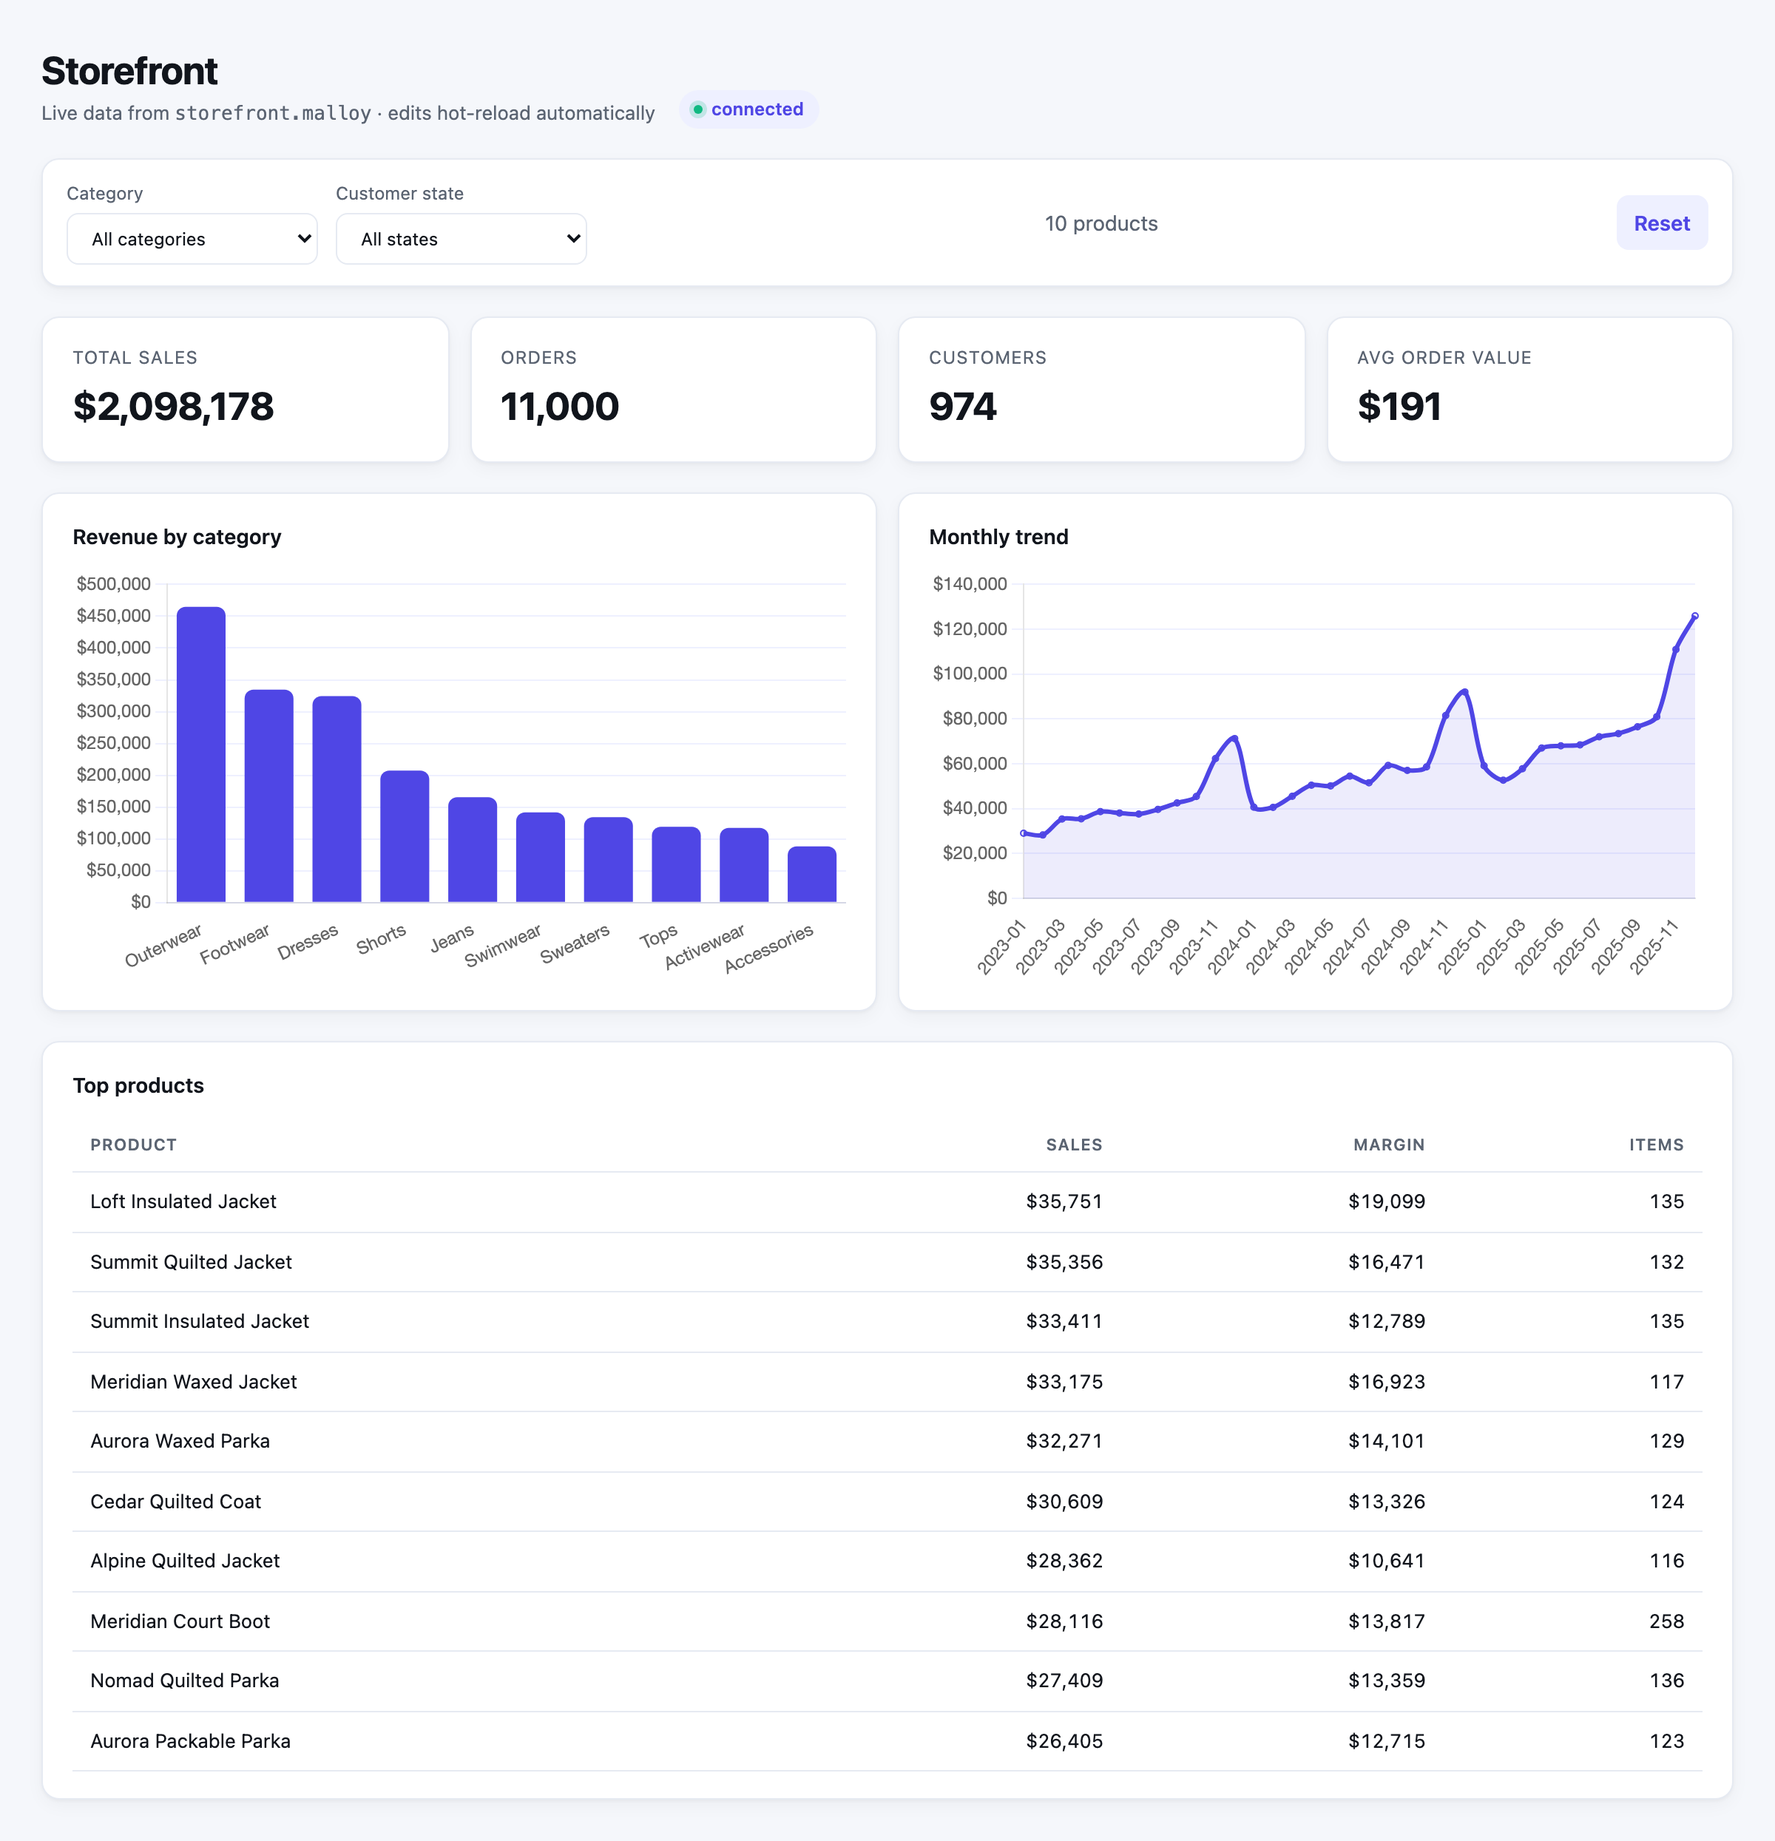
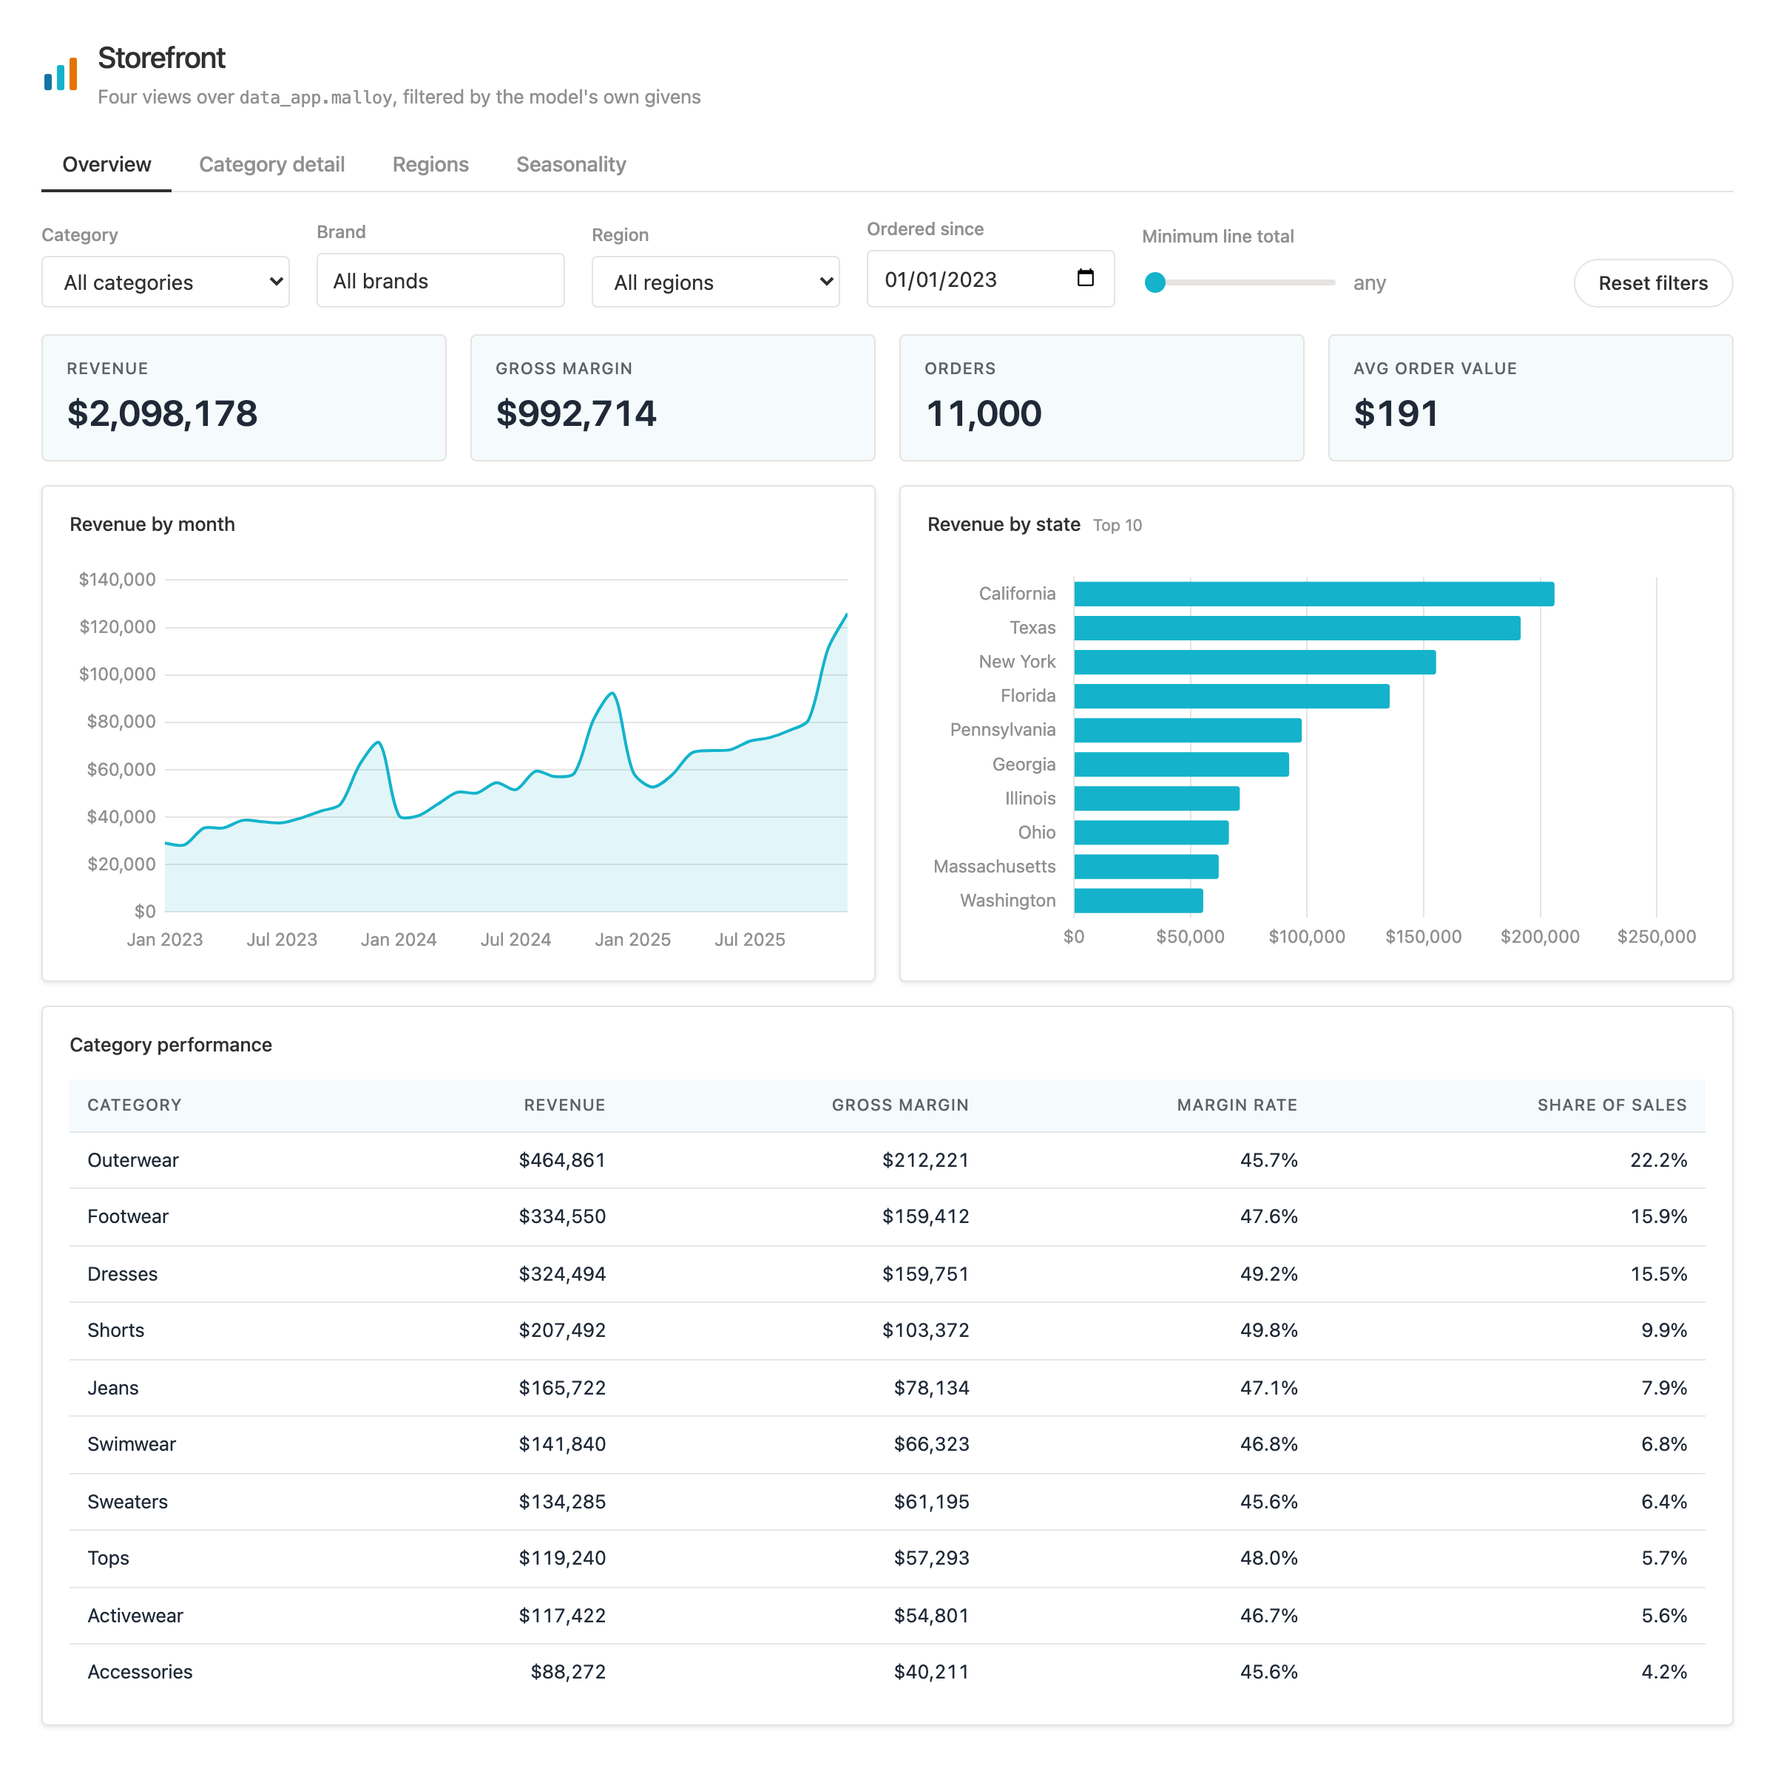
fix(examples): close the review round on the storefront data app
Eleven findings from an adversarial review of the two commits below. Each was
re-derived against this repo's own sources before being taken, because several
of them contradict what I had written.

The one that matters most is a false claim of mine, and it was in four places.
I described the page being replaced as escaping by wrapping values in double
quotes. It does not: it interpolates into query text and escapes `'` by doubling
it. The double-quote encoder is #935's own unlanded format.js, which this slice
declines to carry. Two comments in the same commit contradicted each other about
this, one of them right. The prose in format.js, the vendoring script, and the
test file now separate the two, and the first commit's message is rewritten to
match; the tree it produces is byte-identical, only the message moved.

Behaviour fixes, in descending order of what they would have cost a reader:

- A negative number was not going through the encoder. `encodeFilterValue(-5)`
  returned `-5`, which the grammar reads as `{operator:"=", values:["5"],
  not:true}`: every row EXCEPT 5. Numbers, booleans and dates now reduce to text
  and go through the same encoder as everything else, which is what the module's
  own doc comment already promised callers. Unreachable from the page today
  since every control hands it a string, but this is the module a skill tells
  authors to copy, and the tests were pinning the unsafe path as correct.
[…]

diff --git a/examples/storefront/public/app/format.js b/examples/storefront/public/app/format.js
@@ -80,10 +80,17 @@ export function formatValue(value, format) {
          return monthLabel(value);
       case "integer":
          return integer(value);
-      default:
-         return typeof value === "number" || !Number.isNaN(Number(value))
-            ? integer(value)
-            : String(value);
+      default: {
+         // An untagged number still reads better grouped, and Malloy hands a
+         // large integer back as a string, so a numeric-looking string counts.
+         // A boolean and an empty string do NOT: `Number` turns those into 1
+         // and 0, which would render a `true` as "1" and a blank cell as "0".
+         if (typeof value === "boolean") return String(value);
+         const text = String(value);
+         return text.trim() !== "" && !Number.isNaN(Number(text))
+            ? integer(text)
+            : text;
+      }
    }
 }
 
@@ -136,13 +143,20 @@ export const plural = (word) => {
 // module (see scripts/vendor-malloy-filter.mjs), so a value goes out through
 // `unparse` and comes back through `parse` and the two agree by construction.
 //
-// This page previously escaped by wrapping a value in double quotes, which the
-// string grammar has no notion of. Measured against the real parser, 13 of 14
-// representative values then matched something other than what was clicked:
-// `-Outerwear` became a NEGATION, `%` became a match-anything pattern that
-// returned every row, `null` and `empty` became operators, `a;b` became a
-// conjunction, and a comma split one brand into two. Those failures are all
-// silent: the page still renders a table, it is just the wrong table.
+// The page this replaced did not write filter syntax at all: it pasted the
+// picked value into the query text as a Malloy string literal, escaping `'` by
+// doubling it, which is not Malloy's escape (Malloy escapes with a backslash).
+// Binding the value as a given instead is the fix for that, and it is what
+// data_app.malloy does. It also moves the escaping problem here, because a
+// `filter<string>` given takes filter syntax rather than a plain value.
+//
+// That is the part worth being careful about, because a naive encoder fails
+// silently. Measured against the parser below, a value wrapped in double quotes
+// (which the string grammar has no notion of) matches the quote characters too,
+// and an unescaped value is worse: `-Outerwear` is a NEGATION, `%` is a
+// match-anything pattern that returns every row, `null` and `empty` are
+// operators, `a;b` is a conjunction, and a comma splits one brand into two. The
+// page still renders a table for each of those. It is just the wrong table.
 
 /**
  * Whether one value survives a round trip through the grammar unchanged.
@@ -195,16 +209,22 @@ export function encodeFilterList(values) {
  * Callers decide whether a value is filterable by looking at what this RETURNS,
  * never by testing the value themselves. Two places predicting the same rule is
  * how the rule drifts, and the prediction is the copy that goes stale.
+ *
+ * Every kind of value lands on the same encoder for the same reason. A number
+ * is only "obviously safe" until it is negative: `-5` printed as itself is a
+ * NEGATION of 5, not a match for it, which is the failure this module exists to
+ * prevent. The non-string branches only reduce a value to the text it stands
+ * for; the escaping is still the grammar's.
  */
 export function encodeFilterValue(value) {
    if (value === null || value === undefined) return "";
-   if (typeof value === "boolean") return String(value);
+   if (typeof value === "boolean") return encodeFilterList([String(value)]);
    if (typeof value === "number")
-      return Number.isFinite(value) ? String(value) : "";
+      return Number.isFinite(value) ? encodeFilterList([String(value)]) : "";
    if (value instanceof Date)
       return Number.isNaN(value.getTime())
          ? ""
-         : value.toISOString().slice(0, 10);
+         : encodeFilterList([value.toISOString().slice(0, 10)]);
    if (typeof value !== "string") return "";
    return encodeFilterList([value]);
 }

diff --git a/examples/storefront/public/app/controls.js b/examples/storefront/public/app/controls.js
@@ -26,7 +26,10 @@ import {
 /** Fetch the given contracts the page's model declares. */
 export async function loadGivenContracts(modelPath) {
    const { environment, package: pkg } = Publisher.context;
-   const url = `/api/v0/environments/${encodeURIComponent(environment)}/packages/${encodeURIComponent(pkg)}/models/${modelPath}`;
+   // The model path is ONE encoded segment, slashes included, which is how
+   // /sdk/publisher.js addresses it: a model in a subfolder must not become two
+   // URL segments.
+   const url = `/api/v0/environments/${encodeURIComponent(environment)}/packages/${encodeURIComponent(pkg)}/models/${encodeURIComponent(modelPath)}`;
    const response = await fetch(url, { credentials: "include" });
    if (!response.ok)
       throw new Error(
@@ -102,7 +105,14 @@ export function buildControls(host, { modelPath, contracts, values, onChange }) 
          widgets.push(multiSelect(host, args));
       } else if (contract.control === "select") {
          widgets.push(singleSelect(host, args));
-      } else if (isFilter(contract) && contract.rangeMax !== undefined) {
+      } else if (
+         isFilter(contract) &&
+         contract.rangeMin !== undefined &&
+         contract.rangeMax !== undefined
+      ) {
+         // Both bounds, per the contract: a slider is what the PAIR signals, so
+         // a lone `range_min` or `range_max` is not one (see `Given.rangeMin` in
+         // api-doc.yaml). Reading one bound alone would invent the other.
          widgets.push(range(host, args));
       } else if (contract.type === "date") {
          widgets.push(date(host, { ...args, value: value || fallback }));
@@ -190,7 +200,17 @@ function multiSelect(
       onChange(contract.name, encodeFilterList(selected));
    };
 
+   // Not `{ once: true }`: a pointerdown INSIDE the panel (ticking a checkbox)
+   // would spend the listener without closing anything, and the popover would
+   // then ignore every later click outside it. The listener is removed when the
+   // panel closes instead, which is the event it is actually paired with.
+   const onOutsidePointerDown = (event) => {
+      if (panel && !panel.contains(event.target) && event.target !== button)
+         close();
+   };
+
    const close = () => {
+      document.removeEventListener("pointerdown", onOutsidePointerDown);
       panel?.remove();
       panel = null;
    };
@@ -221,18 +241,7 @@ function multiSelect(
       }
       button.parentElement.appendChild(panel);
       requestAnimationFrame(() => {
-         document.addEventListener(
-            "pointerdown",
-            (event) => {
-               if (
-                  panel &&
-                  !panel.contains(event.target) &&
-                  event.target !== button
-               )
-                  close();
-            },
-            { once: true },
-         );
+         document.addEventListener("pointerdown", onOutsidePointerDown);
       });
    });
 
@@ -256,8 +265,8 @@ function range(host, { contract, value, description, onChange }) {
    input.type = "range";
    input.id = `given-${contract.name}`;
    input.dataset.given = contract.name;
-   input.min = String(contract.rangeMin ?? 0);
-   input.max = String(contract.rangeMax ?? 100);
+   input.min = String(contract.rangeMin);
+   input.max = String(contract.rangeMax);
    input.value = String(decodeAtLeast(value));
    const readout = document.createElement("output");
    const paint = () => {

diff --git a/examples/storefront/public/app/app.js b/examples/storefront/public/app/app.js
@@ -2,7 +2,8 @@
 //
 // State is the current tab plus a value per given, and it lives in the URL:
 // `?tab=regions&REGION=West`. Which means a filtered view of this page is a link
-// someone can send, and Back undoes a filter change.
+// someone can send. A tab change is pushed, so Back returns to the previous tab;
+// a filter change is replaced rather than pushed (see `onGivenChange`).
 
 import {
    barChart,
@@ -330,7 +331,13 @@ async function main() {
       // stale link or an appended tracking parameter is enough to reach this,
       // so it is not only a hostile-URL path.
       readUrl();
-      if (JSON.stringify(state.givens) !== optimistic) render();
+      if (JSON.stringify(state.givens) !== optimistic) {
+         // Rewrite the URL too. Leaving the dropped name in the address bar
+         // leaves the link someone copies asking for a given the model does not
+         // declare, which is the state we just recovered from.
+         writeUrl();
+         render();
+      }
       controls = buildControls(el("filters"), {
          modelPath: MODEL,
          contracts,

diff --git a/examples/storefront/README.md b/examples/storefront/README.md
@@ -16,8 +16,13 @@ no conversion step. **No credentials required.**
 | `data/regions.csv` | The 50 states mapped to a sales region. A CSV, not Parquet: it's the kind of small lookup you'd keep in a spreadsheet, and `duckdb.table()` reads either format. |
 | `storefront.malloy` | The model: `order_items` fact joined to `customers`, `products`, and `regions`, with reusable measures and `# dashboard` views. |
 | `storefront.malloynb` | A guided-tour notebook: the business overview dashboard plus growth, seasonality, geography, category, brand, and top-seller views. |
-| `public/index.html` | A no-build [HTML data app](../../docs/html-data-apps.md) — a Chart.js dashboard driven by `Publisher.query`. Served at `/environments/examples/packages/storefront/`. |
+| `givens.malloy` | The data app's filter controls, declared as `given:` parameters with the tags that say how each one renders. |
+| `data_app.malloy` | `scoped_orders`: `order_items` narrowed by those givens. Every tile on the page queries it. |
+| `public/index.html` | A no-build [HTML data app](../../docs/html-data-apps.md): a four-tab Chart.js dashboard. Served at `/environments/examples/packages/storefront/`. |
+| `public/app/` | The page's ES modules (state and rendering, controls, charts, tables, formatting). No build step: the browser loads them directly. |
 | `public/vendor/chart.umd.js` | Chart.js v4.5.0 (MIT), vendored so the page renders where a CDN is blocked. |
+| `public/vendor/malloy-filter.js` | `@malloydata/malloy-filter`, bundled for the browser, so the page escapes filter values with Malloy's own printer. Regenerate with `bun run vendor:malloy-filter`. |
+| `tests/` | `node --test` coverage for the page's pure module (`bun run test:examples`). |
 
 The data is generated deterministically by [`scripts/generate-example-data.mjs`](../../scripts/generate-example-data.mjs)
 (`bun run generate:example-data`) — it has a growth trend and holiday seasonality, so the charts have
@@ -38,10 +43,17 @@ something real to show.
 
 ## The data app
 
-`public/index.html` is a self-contained dashboard — KPI tiles, a revenue-by-category bar chart, a
-monthly trend line, category/state filters, and a top-products table — all served by Publisher and
-driven by `Publisher.query` against the model's views. No build step. See
-[docs/html-data-apps.md](../../docs/html-data-apps.md).
+`public/index.html` is a dashboard with four tabs (overview, category detail, regions, seasonality):
+KPI tiles, charts, and tables, all served by Publisher and driven by `Publisher.queryFull` against
+the model's views. No build step, no framework, no npm.
+
+Its control row is not written by hand. The page reads the model's `given:` declarations from the
+model metadata endpoint and renders the widget each one asks for, so adding a filter is a
+declaration in `givens.malloy` plus an import in `data_app.malloy`, with no edit to `public/app/`.
+Picked values are bound as givens rather than pasted into query text, and the filter syntax a
+`filter<string>` given takes is printed by Malloy's own filter library (vendored in
+`public/vendor/`) rather than by an escaping rule this page maintains. See
+[docs/html-data-apps.md](../../docs/html-data-apps.md) and [docs/givens.md](../../docs/givens.md).
 
 ![The storefront HTML data app](../../docs/screenshots/storefront-data-app.png)
 

diff --git a/docs/html-data-apps.md b/docs/html-data-apps.md
@@ -24,11 +24,13 @@ Reach for an HTML data app when you want a self-contained, custom dashboard that
 and needs no toolchain. A page can also be *embedded* into another site as an auto-resizing iframe
 with `Publisher.embed` (see [Embedding](#embedding)).
 
-The bundled `storefront` package ships one — a Chart.js dashboard in
-[`examples/storefront/public/index.html`](../examples/storefront/public/index.html), backed entirely
-by `Publisher.query` calls against the model's views:
+The bundled `storefront` package ships one, a four-tab Chart.js dashboard in
+[`examples/storefront/public/index.html`](../examples/storefront/public/index.html) with its modules
+in [`public/app/`](../examples/storefront/public/app/), backed by `Publisher.query` /
+`Publisher.queryFull` calls against the model's views and filtered by the model's own
+[givens](givens.md):
 
-![The storefront HTML data app — KPI tiles, category and trend charts, filters, and a top-products table](screenshots/storefront-data-app.png)
+![The storefront HTML data app: a filter row, four KPI cards, revenue by month and by state, and a category performance table](screenshots/storefront-data-app.png)
 
 Filters run new Malloy queries and repaint the KPIs, charts, and table in place — here in the bundled [`html-data-app`](../examples/html-data-app/) SaaS-subscriptions example:
 
